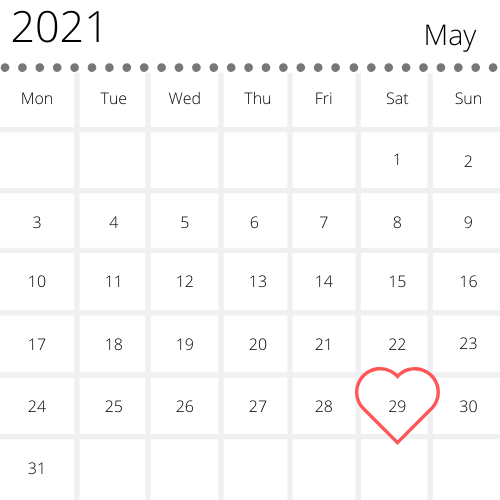
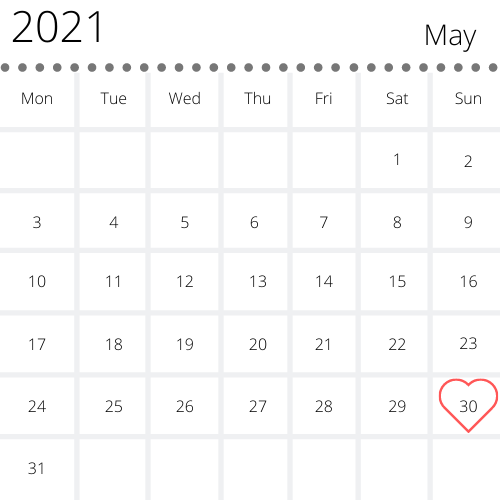
new text and calendar image about 30th May. Google Maps iframe added.

diff --git a/index.html b/index.html
@@ -4,8 +4,8 @@
 
 		<meta name="viewport" content="width=device-width,initial-scale=1">
         <title> Luke & Marg's Wedding </title>
-        <script src="js/map.js"></script>
-        <script async defer src="https://maps.googleapis.com/maps/api/js?key=AIzaSyAF1MxnB7IaKppMfEs8rC47sTOwYgiVq2A&callback=initMap"></script>
+        <!-- <script src="js/map.js"></script>
+        <script async defer src="https://maps.googleapis.com/maps/api/js?key=AIzaSyAF1MxnB7IaKppMfEs8rC47sTOwYgiVq2A&callback=initMap"></script> -->
         
         <link href="https://fonts.googleapis.com/css2?family=Great+Vibes&family=Montserrat&display=swap" rel="stylesheet">
         <link type="text/css" rel="stylesheet" href="css/wedding.css"/>
@@ -50,10 +50,12 @@
                     <div class="main-col">
                         <div class="big-row small-col-rev">
                             <div>
-                                <h2 class="no-bottom-margin"> Save the date </h2>
+                                <h2 class="no-bottom-margin"> 30th May 2021 </h2>
                                 <!-- <br/> -->
                                 <!-- <br/> -->
-                                <h4  class="no-top-margin"> 29th May 2021</h4>                    
+                                <h4  class="no-top-margin"> Arrive 14:00, food from 16:00 <br/> <span class="smaller">(please confirm any dietary requirement)</span></h4>
+                                <h4> Dress code smart/casual</h4>
+                                <h4> Get practicing your karaoke</h4>                    
                             </div>
                             <div>
                                 <img id="calendar" src="wedding-img/2021.png" alt="Calendar page showing May 2021, with the date 29 highlighted with a heart.">
@@ -70,7 +72,9 @@
                     <div class="main-col">
                         <div class="big-row small-col">
                             <div>
-                                <div id="map">                              
+                                
+                                <div id="map"> 
+                                    <iframe src="https://www.google.com/maps/embed?pb=!1m18!1m12!1m3!1d2486.3494146961243!2d-2.844494484104351!3d51.451740822592036!2m3!1f0!2f0!3f0!3m2!1i1024!2i768!4f13.1!3m3!1m2!1s0x4871f1b320affa81%3A0xfc9f42f400d671da!2sWalton%20Castle!5e0!3m2!1sen!2suk!4v1620310395149!5m2!1sen!2suk" width="100%" height="100%" style="border:0;" allowfullscreen="" loading="lazy"></iframe>                             
                                 </div>
                             </div>
 
@@ -92,25 +96,25 @@
                     </div> -->
                 </div>
 
-                <div class="fullPage">
+                <!-- <div class="fullPage">
                     <a class="anchor" id="contact"></a>
                     <div class="main-col">
                         <div class="row">
                                 <h2 class="no-top-margin"> More details to follow soon </h2>
-                                <!-- <h4> xxx </h4> -->
+       
                         </div>
                         <div class="row">
-                            <!-- <div class="col"></div> -->
+     
                             <div class="col">
                                 <img id="rings" src="wedding-img/rings.png" alt="Calendar page showing May 2021, with the date 29 highlighted with a heart.">
                             </div>
-                            <!-- <div class="col"></div> -->
+   
                         </div>
                     </div>
                     <footer>
                         <p>made by lauralikespi 2020</p>
                     </footer>
-                </div>
+                </div> -->
 			<!-- <div class="row" id="nav-bar">
 				<div class="col">
 				</div>

diff --git a/css/wedding.css b/css/wedding.css
@@ -127,8 +127,10 @@ ul li {
     width: 70%;
     height: 50vh;
 	background-color: #C4D7F2;
-	left: 20%;
   }
+.smaller {
+	font-size: 0.6em;
+}
 
   @media only screen and (max-width: 750px) {
 	#mainTitle {
@@ -143,7 +145,7 @@ ul li {
 
 }
 
-@media only screen and (max-width: 1023px) and (orientation: portrait)){
+@media only screen and (max-width: 1023px) and (orientation: portrait){
 	#mainPhoto {
 		width: 50%;
 	}
@@ -152,8 +154,8 @@ ul li {
 	}	
 	#map {
 		height: 45vh;
-		left: 15vw;
-	} */
+		margin-left: 15%;
+	} 
 	.small-col {
         display: flex;
         flex-direction: column;
@@ -192,5 +194,8 @@ ul li {
 	}
 	.big-row > * {
 		flex: 1 100%;
+	}
+	#map {
+		margin-left: 10vw;
 	}
 }
